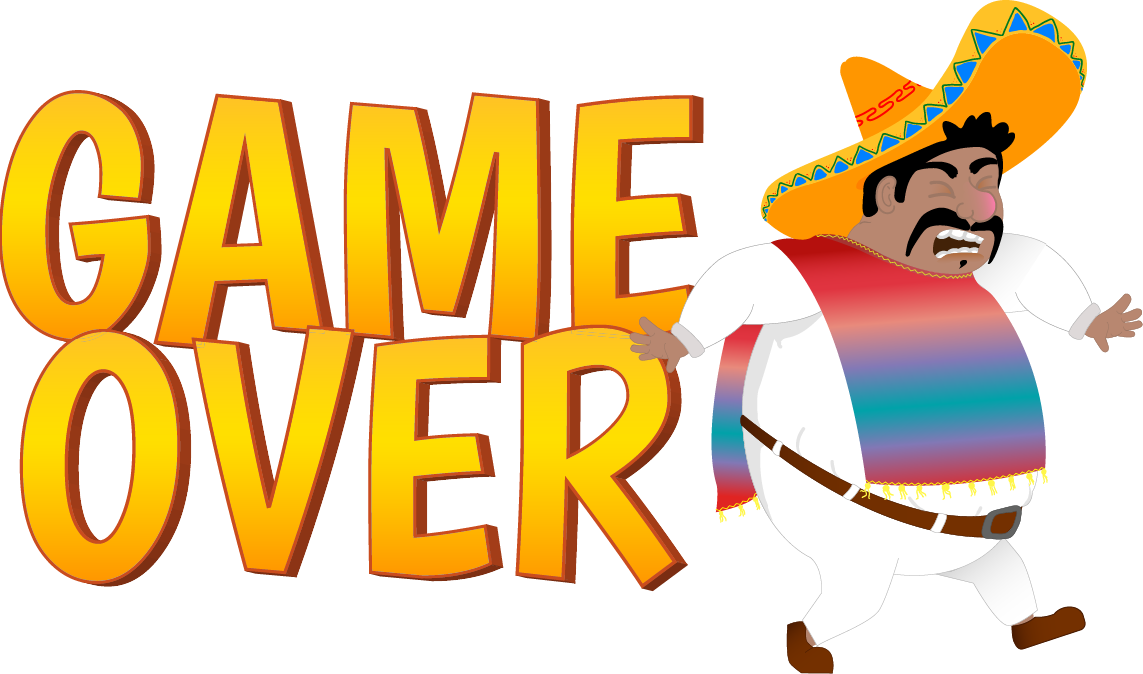
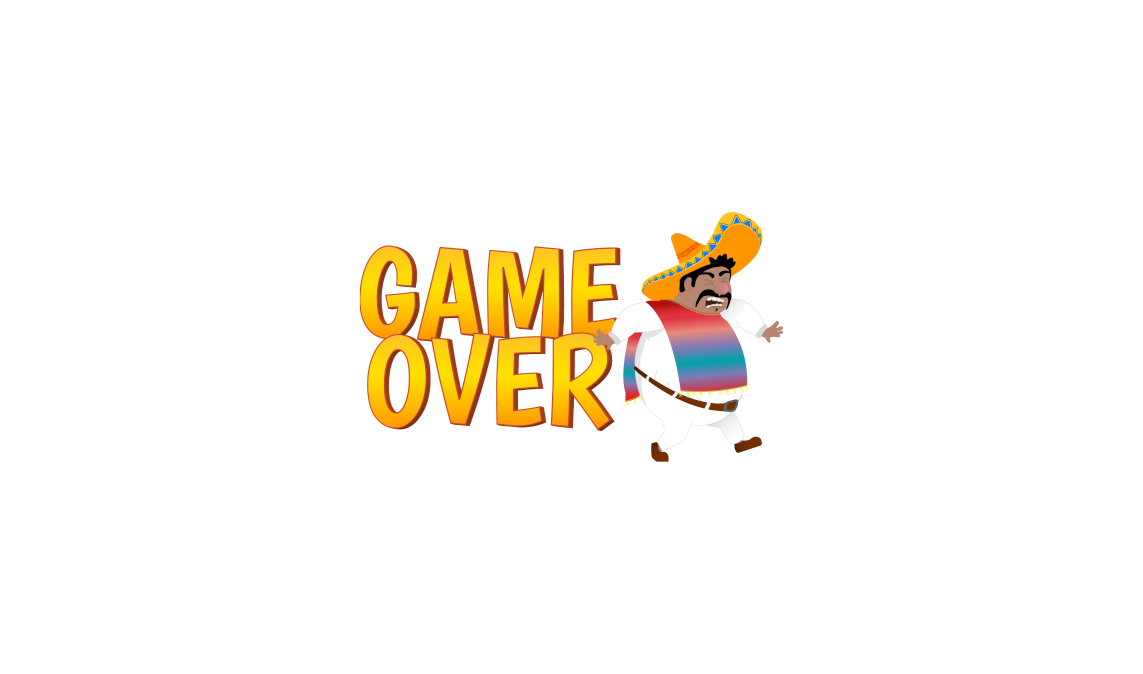
fix problems with sounds and animations

diff --git a/classes/character.class.js b/classes/character.class.js
@@ -20,6 +20,7 @@ export class Character extends MovableObject {
     ];
     score = 0;
     lastThrowedBottle = 0;
+    runSoundPlaying = false;
 
     constructor(){
         super();
@@ -97,9 +98,9 @@ export class Character extends MovableObject {
         if((this.world.keyboard.RIGHT || this.world.keyboard.LEFT) && !this.isInAir() && !this.world.keyboard.SPACE && !this.checkIsDead() && this.canMove){
             this.playAnimation(ImageHub.character.walk);
             this.timeSinceLastMove = 0;
-            SoundHub.playOne(this.sounds[2]);
+            this.playRunSound(true);
         } else {
-            SoundHub.stopOne(this.sounds[2]);
+            this.playRunSound(false);
         }
     }
 
@@ -128,6 +129,9 @@ export class Character extends MovableObject {
             this.playAnimation(ImageHub.character.jump);
             this.timeSinceLastMove = 0;        
             SoundHub.playOne(this.sounds[3]);
+        }
+        else {
+            SoundHub.stopAndResetOne(this.sounds[3]);
         }
     }
 
@@ -247,10 +251,25 @@ export class Character extends MovableObject {
      * @param {number} damage - Amount of damage to apply.
      */
     applyDamage(damage){
-        if(new Date().getTime() - this.timeSinceLastDamage > 1000){
+        if(!this.isInAir() && new Date().getTime() - this.timeSinceLastDamage > 1000){
             super.applyDamage(damage);
             this.world.healthBar.setPercentage(this.health);
             this.timeSinceLastDamage = new Date().getTime();
+        }
+    }
+
+    stopMoveSound(){
+        SoundHub.stopOne(this.sounds[2]);
+    }
+
+    playRunSound(run){
+        if(run && !this.runSoundPlaying) {
+            this.runSoundPlaying = true;
+            SoundHub.playOne(this.sounds[2]);
+        }
+        else if(!run && this.runSoundPlaying) {
+            SoundHub.stopOne(this.sounds[2]);
+            this.runSoundPlaying = false;
         }
     }
 }

diff --git a/js/game.js b/js/game.js
@@ -6,7 +6,7 @@ import { ImageHub } from '../classes/imagehub.class.js';
 import { SoundHub } from '../classes/soundhub.class.js';
 import { MainMenu } from '../classes/main-menu.class.js';
 import { initData, mainMenuToggle, difficultyToggle, selectLevelToggle, howToPlayToggle, impressumToggle, youWinToggle, youLoseToggle, removeEndscreen, checkMobile, checkIsInLandscape, setNextLevelButtonInvisble, setNextLevelButtonVisble } from './dom.js';
-import { addFunctionListnerControlls, loadAudioSetting } from './controlls.js';
+import { addFunctionListnerControlls, loadAudioSetting, preventSpaceClick } from './controlls.js';
 import { EndScoreText } from '../classes/end-score-text.class.js';
 
 let canvasRev;
@@ -29,6 +29,7 @@ window.addEventListener('load', initGame);
  * data, intervals, and audio settings.
  */
 function initGame(){
+    preventSpaceClick();
     addFunctionListner();
     canvasRev = document.getElementById("canvas");  
     ctx = canvasRev.getContext('2d');

diff --git a/classes/soundhub.class.js b/classes/soundhub.class.js
@@ -26,8 +26,8 @@ export class SoundHub {
     static stopAll() {
         SoundHub.allSounds.forEach(sound => {
             if(sound.readyState == 4) {
-                sound.pause();
-            }
+                sound.pause();             
+            }            
         });
         SoundHub.allSounds = [];
     }
@@ -38,6 +38,15 @@ export class SoundHub {
      */
     static stopOne(sound) {
         sound.pause();
+    }
+
+    /**
+     * Pauses and reset a single sound.
+     * @param {HTMLAudioElement} sound - The audio element to stop.
+     */
+    static stopAndResetOne(sound) {
+        sound.pause();
+        sound.currentTime = 0;
     }
 
     /**

diff --git a/classes/imagehub.class.js b/classes/imagehub.class.js
@@ -234,7 +234,7 @@ export class ImageHub {
         './assets/img/8_coin/coin_2.png'
     ];   
     static endScreens = {
-        gameOver: './assets/img/You won, you lost/Game Over.png',
+        gameOver: './assets/img/You won, you lost/Game over A.png',
         winGame: './assets/img/You won, you lost/You win B.png',
     };
     static startScreen = './assets/img/9_intro_outro_screens/start/startscreen_1.png';

diff --git a/js/controlls.js b/js/controlls.js
@@ -24,6 +24,13 @@ export function loadAudioSetting(){
     }
 }
 
+export function preventSpaceClick(){
+    window.document.addEventListener("keydown", e => {
+    if ((e.code === "Space" || e.key === " ") && document.activeElement.tagName === "BUTTON") {
+        e.preventDefault();
+    }});
+}
+
 /**
  * Toggles audio mute state.
  * Updates the UI icon, mutes/unmutes all sounds, and saves the setting.

diff --git a/style.css b/style.css
@@ -5,6 +5,7 @@
 
 *{
     font-family: 'HennyPenny', 'Franklin Gothic Medium', 'Arial Narrow', Arial, sans-serif;
+    font-size: 18px;
 }
 
 a{
@@ -43,6 +44,7 @@ canvas {
     position: absolute;
     height: 100%;
     width: 100%;
+    border-radius: 16px;
 }
 
 h1{
@@ -230,7 +232,7 @@ button {
 }
 
 .endscreen{
-    margin-top: 210px;
+    margin-top: 260px;
 }
 
 @media (max-width: 1000px) {

diff --git a/classes/movable-object.class.js b/classes/movable-object.class.js
@@ -74,7 +74,8 @@ export class MovableObject extends DrawableObject {
             this.img = this.imageCache[path];
             this.onceImageIndex++;
         } else if(shouldEndGame){
-            gameOver(true);           
+            gameOver(true);  
+            this.world.character.stopMoveSound();         
         }
     }
 
